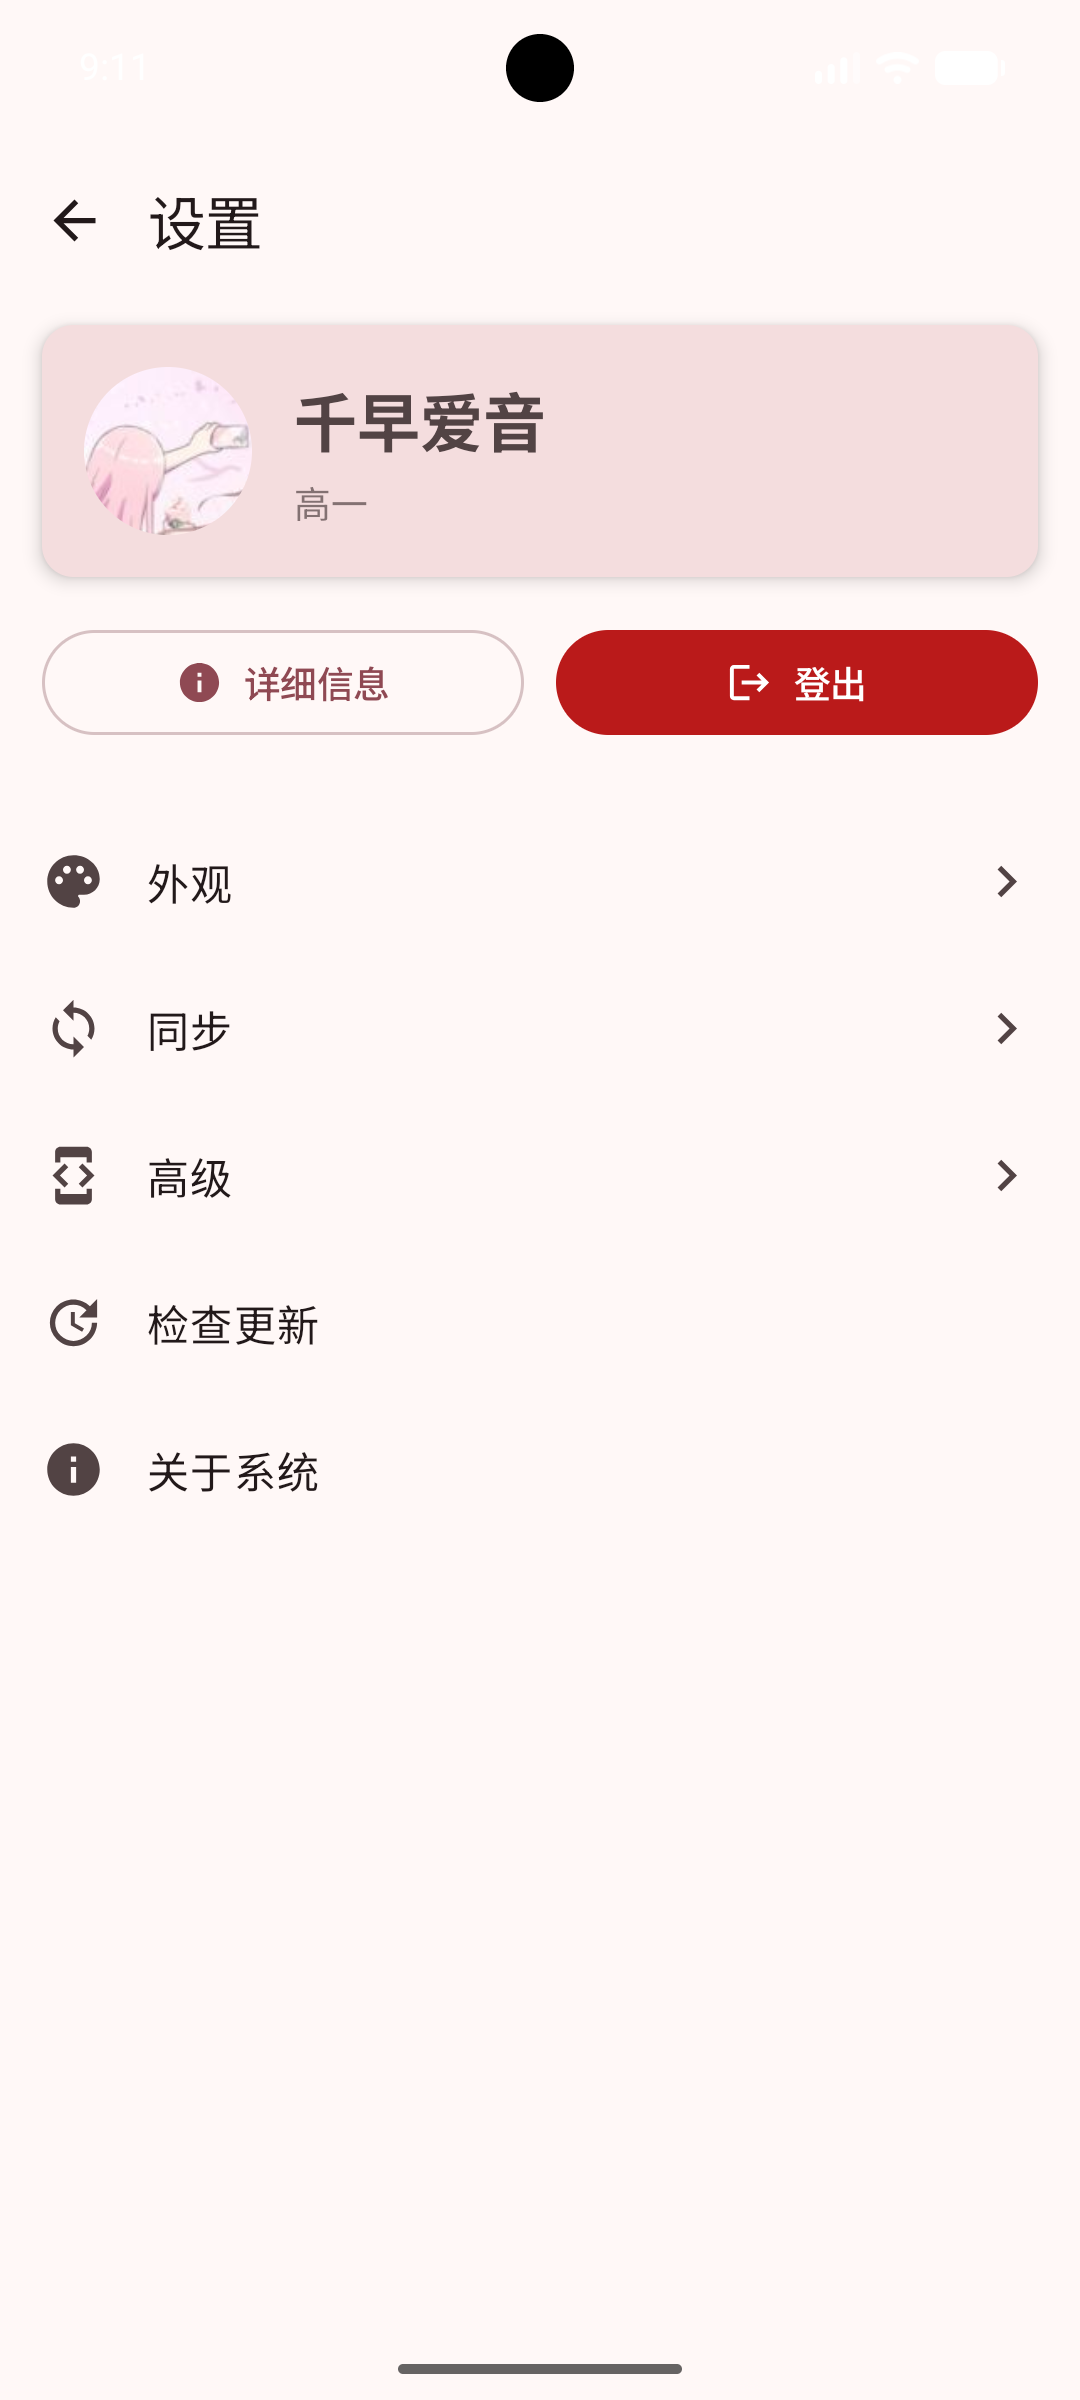
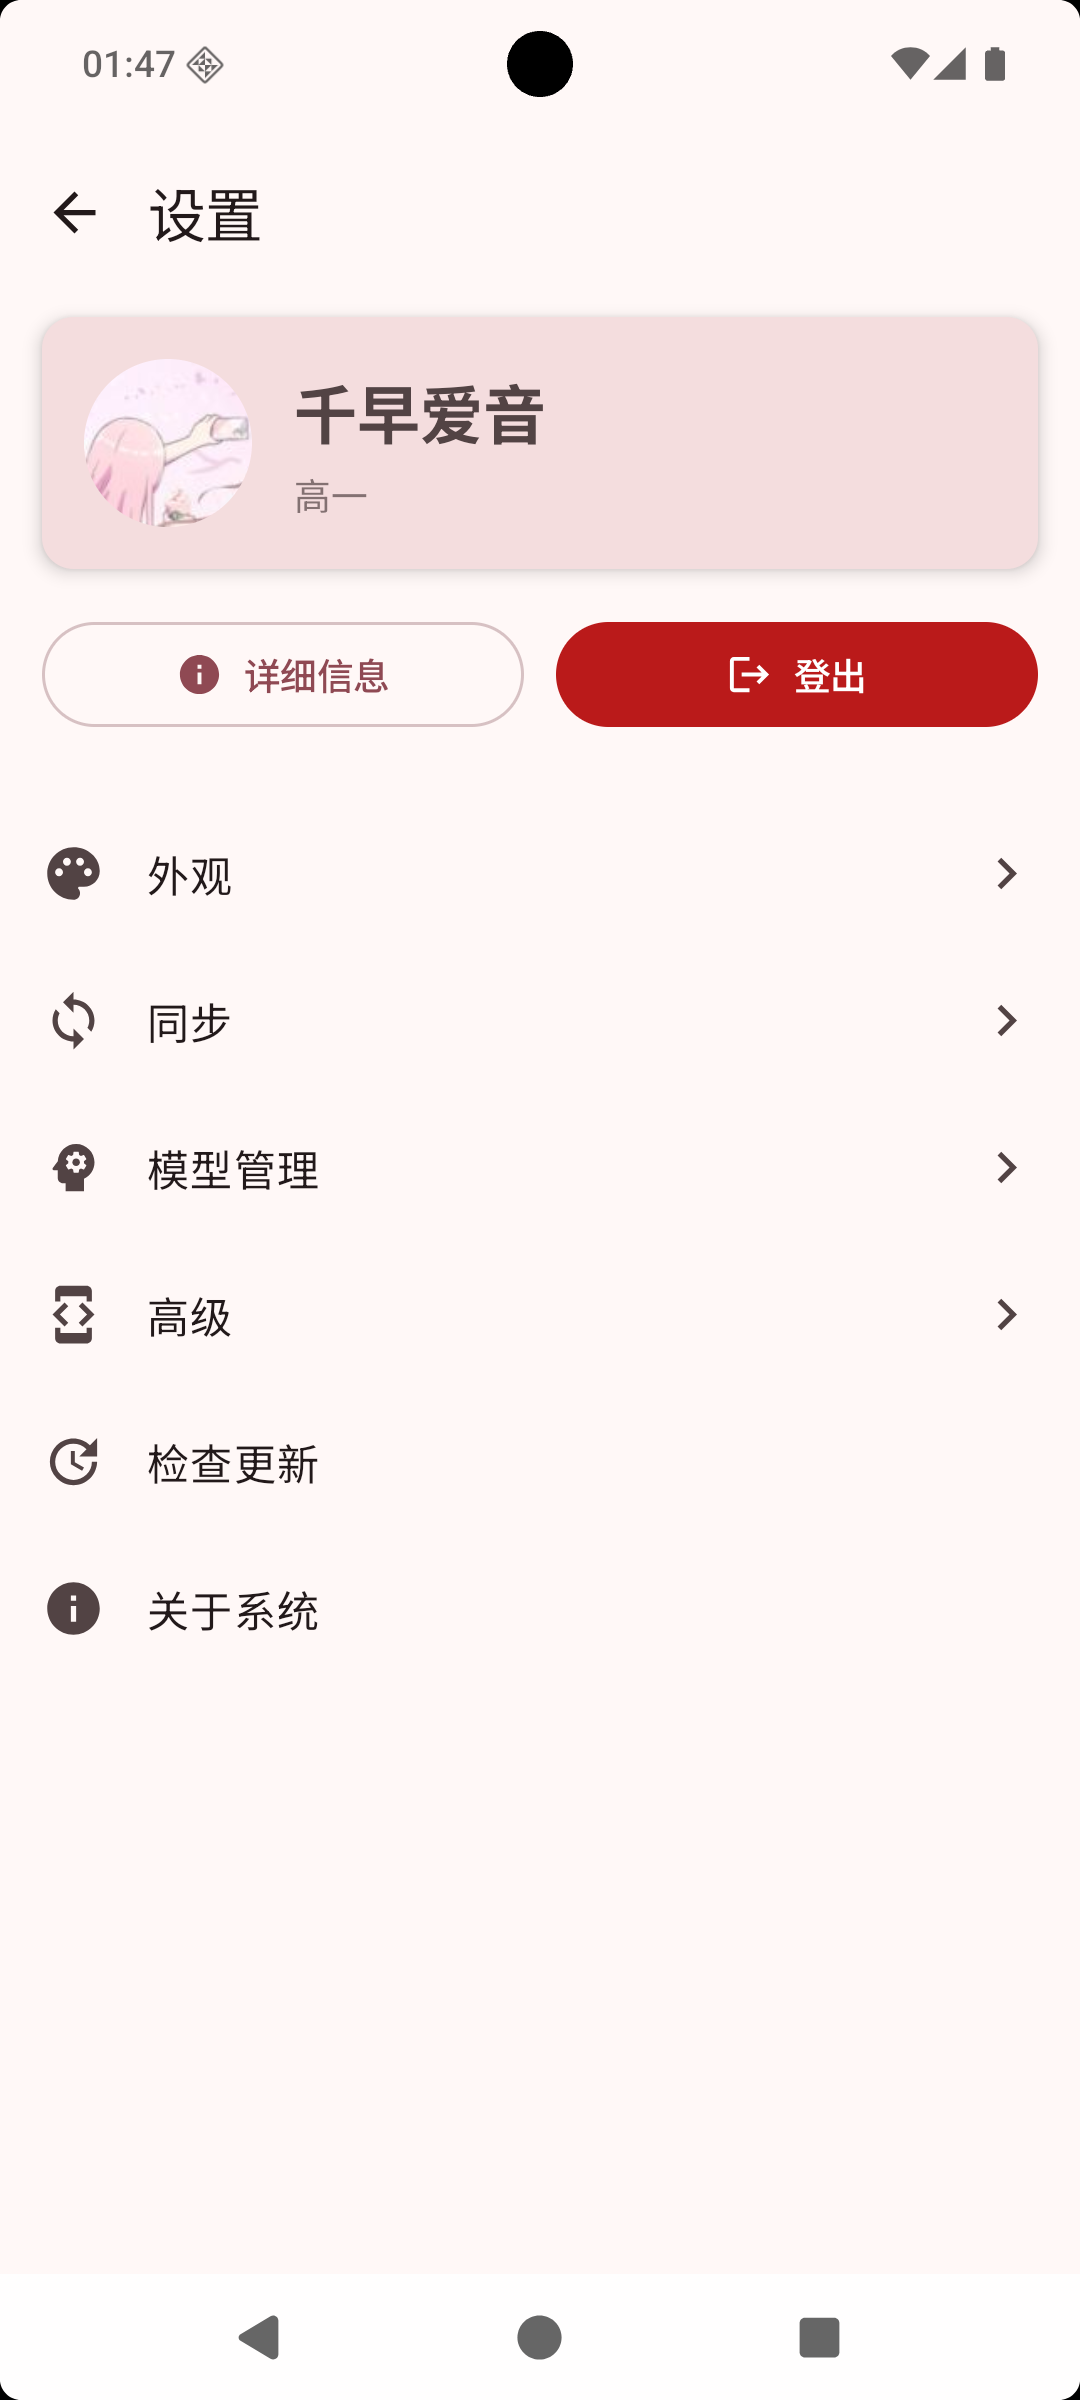
update doc

diff --git a/composeApp/src/commonMain/kotlin/top/kagg886/eoa/pages/main/settings/ai/list/screen.kt b/composeApp/src/commonMain/kotlin/top/kagg886/eoa/pages/main/settings/ai/list/screen.kt
@@ -4,12 +4,14 @@ import androidx.compose.foundation.layout.*
 import androidx.compose.foundation.lazy.LazyColumn
 import androidx.compose.foundation.lazy.items
 import androidx.compose.material.icons.Icons
+import androidx.compose.material.icons.automirrored.filled.Help
 import androidx.compose.material.icons.filled.*
 import androidx.compose.material3.*
 import androidx.compose.runtime.Composable
 import androidx.compose.runtime.getValue
 import androidx.compose.ui.Modifier
 import androidx.compose.ui.platform.LocalDensity
+import androidx.compose.ui.platform.LocalUriHandler
 import androidx.compose.ui.unit.dp
 import androidx.lifecycle.viewmodel.compose.viewModel
 import kotlinx.serialization.Serializable
@@ -67,14 +69,24 @@ private fun AISettingsContent(
         topBar = {
             TopAppBar(
                 title = { Text("模型管理") },
-                navigationIcon = { BackIconButton() }
+                navigationIcon = { BackIconButton() },
+                actions = {
+                    val uri = LocalUriHandler.current
+                    IconButton(
+                        onClick = {
+                            uri.openUri("https://eoa.kagg886.top/setting.html#ai模型配置")
+                        }
+                    ) {
+                        Icon(Icons.AutoMirrored.Filled.Help, contentDescription = "帮助")
+                    }
+                }
             )
         },
         floatingActionButton = {
             FloatingActionButton(onClick = { nav.navigate(AISettingsEditRoute()) }) {
                 Icon(Icons.Default.Add, contentDescription = "添加")
             }
-        }
+        },
     ) { paddingValues ->
         Box(
             modifier = Modifier

diff --git a/composeApp/src/commonMain/kotlin/top/kagg886/eoa/pages/main/settings/ai/routes.kt b/composeApp/src/commonMain/kotlin/top/kagg886/eoa/pages/main/settings/ai/routes.kt
@@ -2,10 +2,10 @@ package top.kagg886.eoa.pages.main.settings.ai
 
 import androidx.compose.ui.window.DialogProperties
 import androidx.navigation.NavGraphBuilder
+import androidx.navigation.compose.composable
 import androidx.navigation.compose.dialog
 import androidx.navigation.toRoute
 import kotlinx.serialization.Serializable
-import top.kagg886.eoa.component.nav.transition
 import top.kagg886.eoa.pages.main.settings.ai.edit.AISettingsEditRoute
 import top.kagg886.eoa.pages.main.settings.ai.edit.AISettingsEditScreen
 import top.kagg886.eoa.pages.main.settings.ai.list.AISettingsListRoute
@@ -22,8 +22,8 @@ import top.kagg886.eoa.pages.main.settings.ai.list.AISettingsScreen
 data object AISettingsRoute
 
 val installAISettingsRoute: NavGraphBuilder.() -> Unit = {
-    transition<AISettingsListRoute> { AISettingsScreen() }
-    dialog<AISettingsEditRoute>(dialogProperties = DialogProperties(usePlatformDefaultWidth = false)) {
+    composable<AISettingsListRoute> { AISettingsScreen() }
+    dialog<AISettingsEditRoute>(dialogProperties = DialogProperties(usePlatformDefaultWidth = false,dismissOnClickOutside = false)) {
         AISettingsEditScreen(
             it.toRoute()
         )

diff --git a/composeApp/src/commonMain/kotlin/top/kagg886/eoa/pages/main/settings/ai/edit/screen.kt b/composeApp/src/commonMain/kotlin/top/kagg886/eoa/pages/main/settings/ai/edit/screen.kt
@@ -37,8 +37,8 @@ fun AISettingsEditScreen(route: AISettingsEditRoute) {
         LLMProviderEditModel(mainModel.database, route.uuid)
     }
     model.collectSideEffect {
-        when(it) {
-            is LLMProviderEditSideEffect.Toast -> mainModel.toast(SnackBarType.Success,it.message)
+        when (it) {
+            is LLMProviderEditSideEffect.Toast -> mainModel.toast(SnackBarType.Success, it.message)
             LLMProviderEditSideEffect.NavigateBack -> nav.popBackStack()
         }
     }
@@ -110,7 +110,7 @@ private fun LLMProviderEditPage(
             }
         },
         dismissButton = {
-            TextButton(onClick = onDismiss) {
+            TextButton(onClick = onDismiss, enabled = !confirming) {
                 Text("取消")
             }
         }

diff --git a/docs/doc/settings.md b/docs/doc/settings.md
@@ -136,6 +136,44 @@
 
 如果同步失败，页面会在“立即同步”下方显示失败原因。可以检查网络和登录状态后再试。
 
+## AI模型配置
+
+“AI模型配置”用于管理应用里可以使用的 AI 模型。配置完成后，在需要 AI 辅助的功能中，就可以选择对应模型来生成内容。
+
+![AI模型配置](./settings.assets/ai-overview.png)
+
+如果还没有添加过模型，页面会提示“暂无AI配置”。点击右下角的添加按钮，可以新建一个模型配置。
+
+已经添加的模型会显示在列表中。列表里优先显示“模型备注”，如果没有填写备注，就会显示“模型名称”。每个模型右侧可以进行编辑或删除。
+
+列表中的小图标表示这个模型支持的能力：
+
+- 图片图标：表示可以处理图片内容
+- 代码图标：表示更适合返回结构清晰的结果
+
+点击添加或编辑后，会打开模型信息窗口。
+
+![编辑AI模型](./settings.assets/ai-view-dialog.png)
+
+这里可以填写：
+
+- **模型备注**：给自己看的名称，例如“日常使用”“识别课表图片”
+- **模型简述**：简单说明这个模型适合做什么，方便以后选择
+- **模型名称**：模型服务中对应的模型名
+- **模型Key**：模型服务提供的访问凭证
+- **Base URL**：模型服务地址，使用自定义或第三方服务时需要填写
+
+下方两个开关用于说明模型能力：
+
+- **支持多模态**：开启后，使用 AI 功能时可以选择图片
+- **支持原生JSON输出**：开启后，应用会按更规整的方式接收模型结果
+
+填写完成后点击“保存”。保存成功后，这个模型就会出现在模型列表中，也可以在支持 AI 的页面中被选择。
+
+::: tip
+如果你不使用 AI 辅助功能，可以不配置这里。模型Key通常由对应的 AI 服务提供，请妥善保管，不要随意分享给他人。
+:::
+
 ## 常见情况
 
 个人信息不对：先尝试手动同步；如果学校教务系统本身信息未更新，应用内也会保持旧内容。
